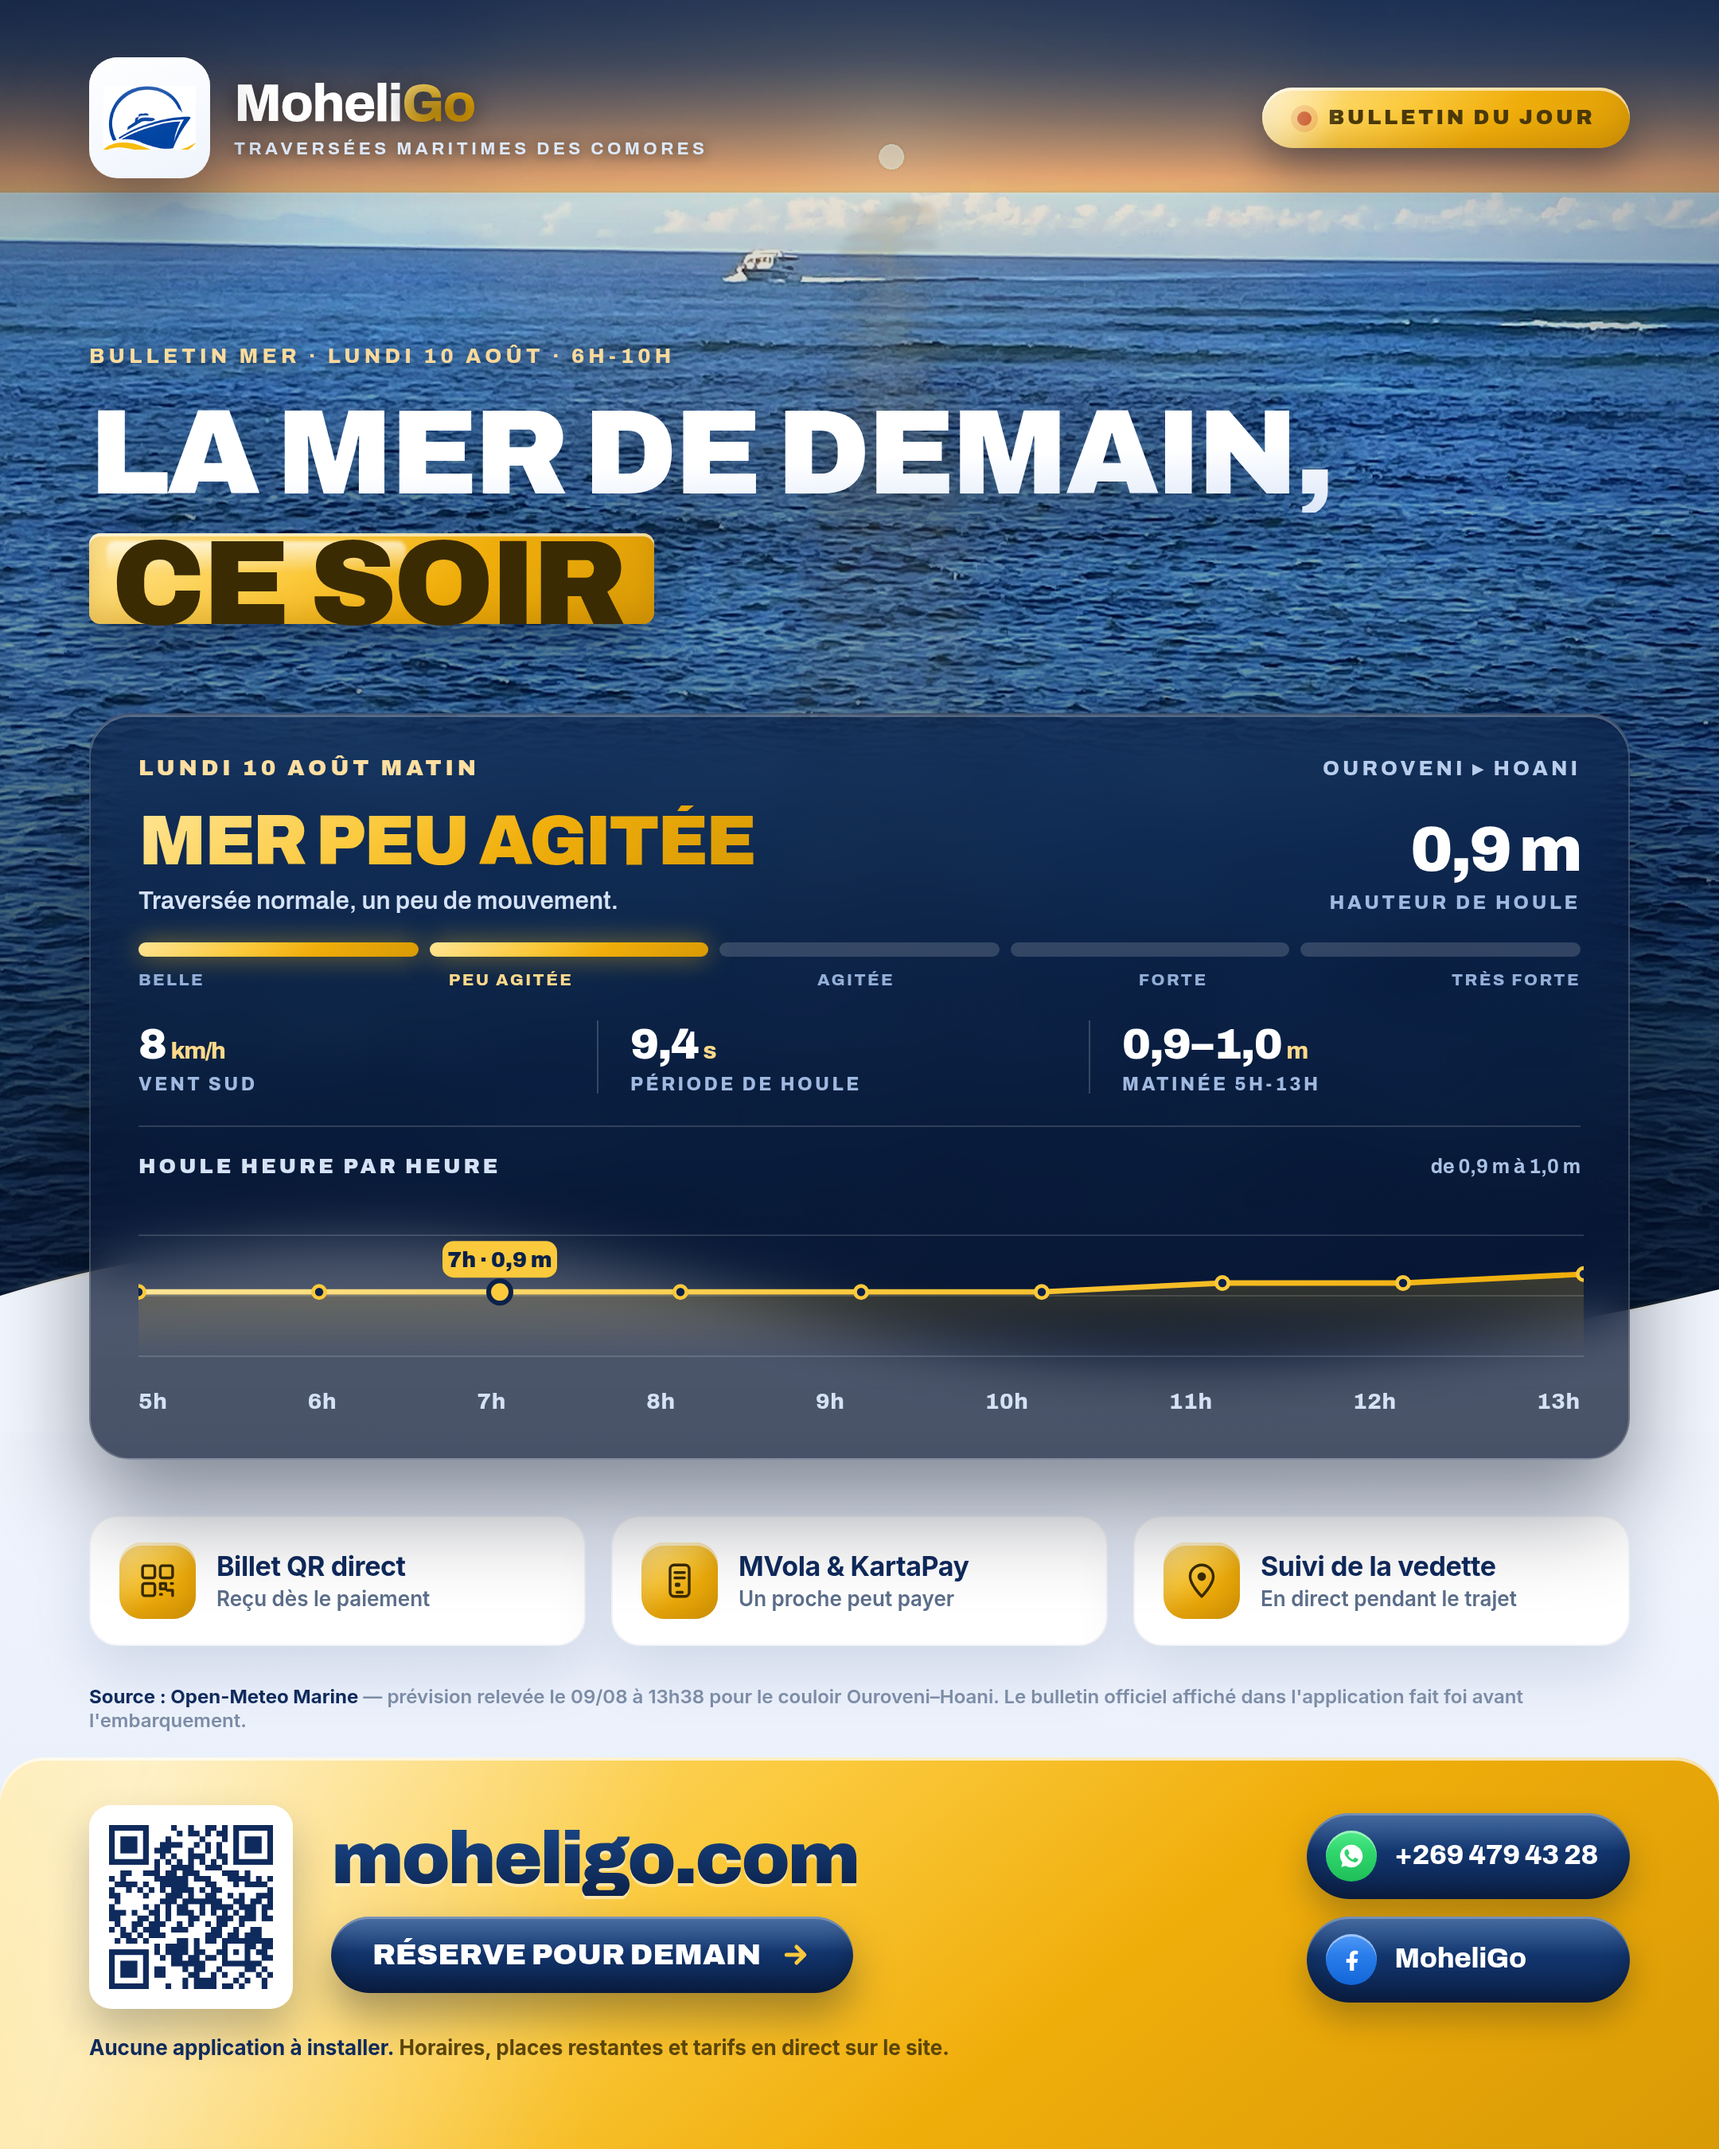
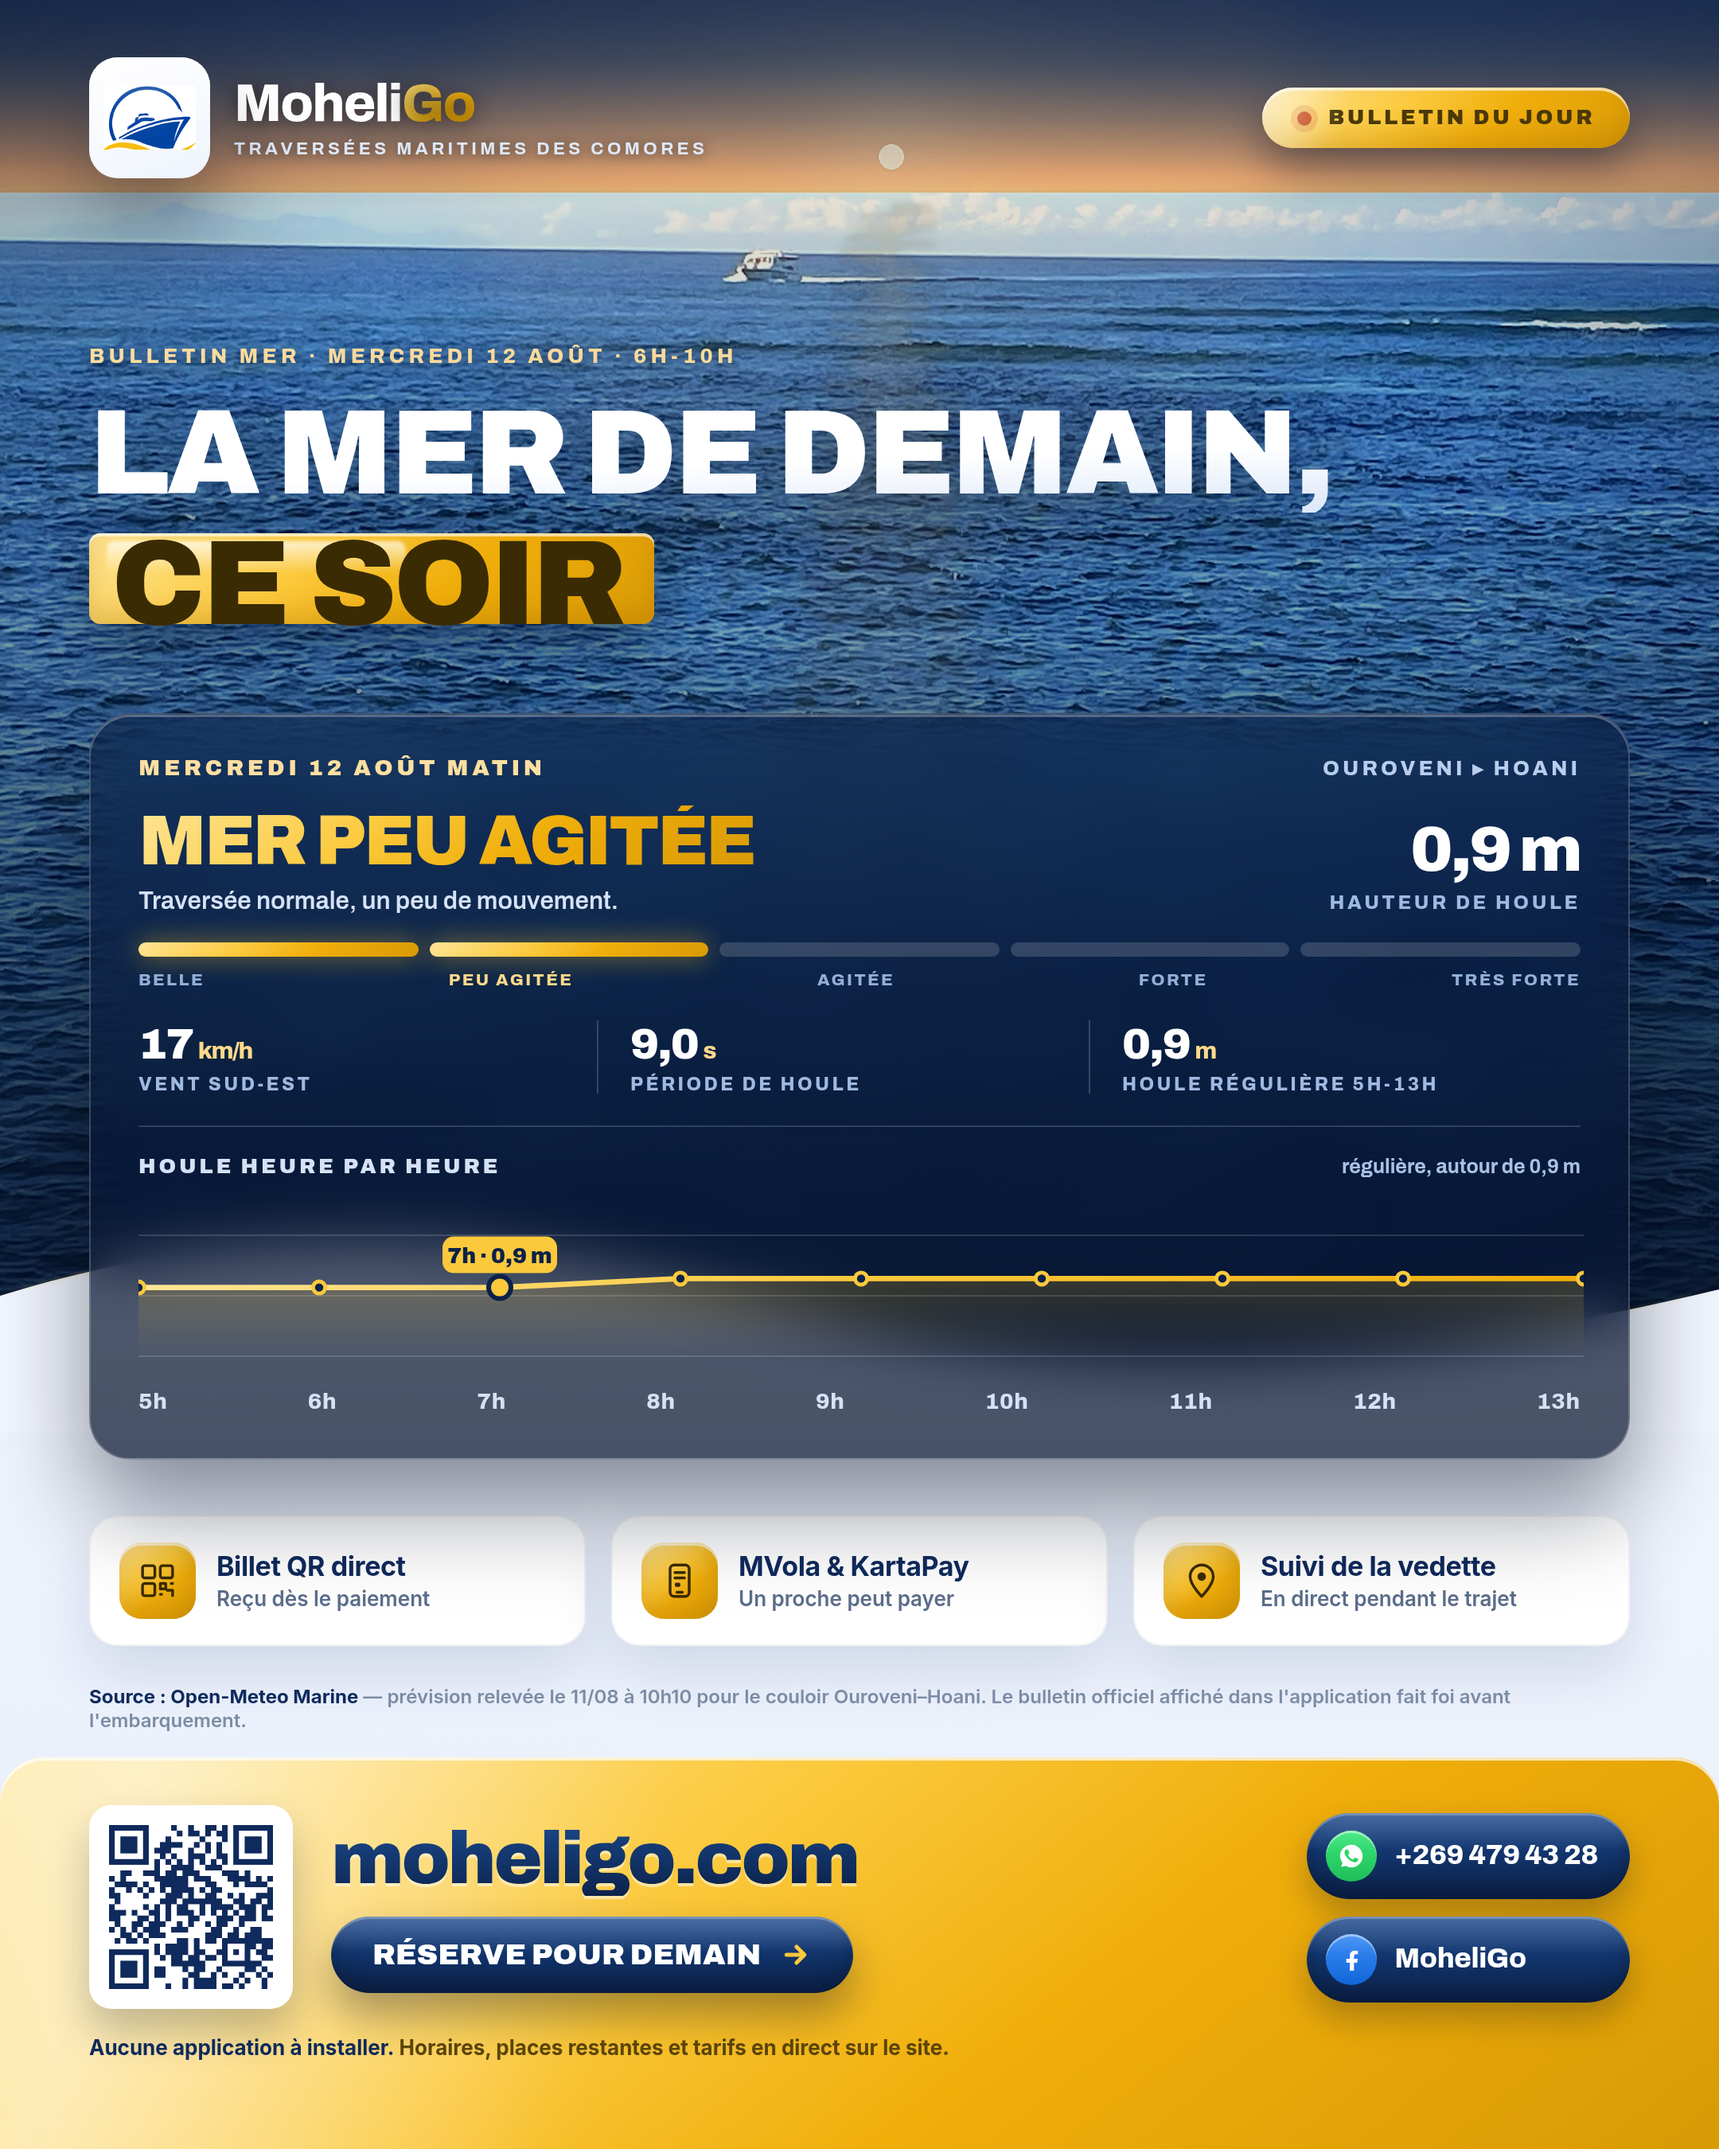
Bulletin mer du mercredi 12 aout + houle reguliere nommee
Bulletin du soir regenere sur la prevision reelle du 11/08 a 10h10 :
mer peu agitee, houle 0,93 m, vent 17 km/h sud-est, periode 9,0 s.

La houle variait de moins d'un decimetre sur la matinee, ce qui donnait
« 0,9-0,9 m » et « de 0,9 m a 0,9 m » : juste, mais illisible. bulletin.py
detecte ce cas et affiche « 0,9 m / HOULE REGULIERE 5H-13H ». Les jetons
{{HMIN}}/{{HMAX}} du gabarit sont remplaces par {{AMPLI}}/{{AMPLI_LAB}}.

MEMOIRE.md et pub/flyers/README.md mis a jour.

Claude-Session: https://claude.ai/code/session_01BYJ87ihntXtVLQBUE1Jkoy

diff --git a/moheligo/pub/flyers/flyer8-soir-fb.html b/moheligo/pub/flyers/flyer8-soir-fb.html
@@ -197,12 +197,12 @@ body { width:1080px; height:1350px; font-family:'Inter',Arial,sans-serif; color:
   </div>
 
   <div class="claim">
-    <span class="over arch">BULLETIN MER · LUNDI 10 AOÛT · 6H-10H</span>
+    <span class="over arch">BULLETIN MER · MERCREDI 12 AOÛT · 6H-10H</span>
     <h1 class="arch"><span class="l1">LA MER DE DEMAIN,</span><span class="hl">CE SOIR</span></h1>
   </div>
 
   <div class="glass">
-    <div class="gh arch"><b>LUNDI 10 AOÛT MATIN</b><span>OUROVENI &#9656; HOANI</span></div>
+    <div class="gh arch"><b>MERCREDI 12 AOÛT MATIN</b><span>OUROVENI &#9656; HOANI</span></div>
 
     <div class="verdict">
       <div class="txt arch"><b>MER PEU AGITÉE</b><small>Traversée normale, un peu de mouvement.</small></div>
@@ -213,13 +213,13 @@ body { width:1080px; height:1350px; font-family:'Inter',Arial,sans-serif; color:
     <div class="gauge-lab arch"><span class="">BELLE</span><span class="on">PEU AGITÉE</span><span class="">AGITÉE</span><span class="">FORTE</span><span class="">TRÈS FORTE</span></div>
 
     <div class="metrics arch">
-      <div class="metric"><b>8<i>km/h</i></b><small>VENT SUD</small></div>
-      <div class="metric"><b>9,4<i>s</i></b><small>PÉRIODE DE HOULE</small></div>
-      <div class="metric"><b>0,9–1,0<i>m</i></b><small>MATINÉE 5H-13H</small></div>
+      <div class="metric"><b>17<i>km/h</i></b><small>VENT SUD-EST</small></div>
+      <div class="metric"><b>9,0<i>s</i></b><small>PÉRIODE DE HOULE</small></div>
+      <div class="metric"><b>0,9<i>m</i></b><small>HOULE RÉGULIÈRE 5H-13H</small></div>
     </div>
 
     <div class="chart">
-      <div class="ct arch"><b>HOULE HEURE PAR HEURE</b><span>de 0,9 m à 1,0 m</span></div>
+      <div class="ct arch"><b>HOULE HEURE PAR HEURE</b><span>régulière, autour de 0,9 m</span></div>
       <svg width="908" height="116" viewBox="0 0 908 116" fill="none">
         <defs>
           <linearGradient id="aire" x1="0" y1="0" x2="0" y2="104" gradientUnits="userSpaceOnUse">
@@ -232,10 +232,10 @@ body { width:1080px; height:1350px; font-family:'Inter',Arial,sans-serif; color:
           </linearGradient>
         </defs>
         <path d="M0 28 H908 M0 66 H908 M0 104 H908" stroke="#FFFFFF" stroke-opacity=".15" stroke-width="1"/>
-        <path d="M0.0 63.6 L113.5 63.6 L227.0 63.6 L340.5 63.6 L454.0 63.6 L567.5 63.6 L681.0 58.0 L794.5 58.0 L908.0 52.4 L908.0 116 L0.0 116 Z" fill="url(#aire)"/>
-        <path d="M0.0 63.6 L113.5 63.6 L227.0 63.6 L340.5 63.6 L454.0 63.6 L567.5 63.6 L681.0 58.0 L794.5 58.0 L908.0 52.4" fill="none" stroke="url(#trait)" stroke-width="3.4"
+        <path d="M0.0 60.8 L113.5 60.8 L227.0 60.8 L340.5 55.2 L454.0 55.2 L567.5 55.2 L681.0 55.2 L794.5 55.2 L908.0 55.2 L908.0 116 L0.0 116 Z" fill="url(#aire)"/>
+        <path d="M0.0 60.8 L113.5 60.8 L227.0 60.8 L340.5 55.2 L454.0 55.2 L567.5 55.2 L681.0 55.2 L794.5 55.2 L908.0 55.2" fill="none" stroke="url(#trait)" stroke-width="3.4"
               stroke-linecap="round" stroke-linejoin="round"/>
-        <circle cx="0.0" cy="63.6" r="3.8" fill="#0B2149" stroke="#FBC93C" stroke-width="2.4"/><circle cx="113.5" cy="63.6" r="3.8" fill="#0B2149" stroke="#FBC93C" stroke-width="2.4"/><circle cx="227.0" cy="63.6" r="3.8" fill="#0B2149" stroke="#FBC93C" stroke-width="2.4"/><circle cx="340.5" cy="63.6" r="3.8" fill="#0B2149" stroke="#FBC93C" stroke-width="2.4"/><circle cx="454.0" cy="63.6" r="3.8" fill="#0B2149" stroke="#FBC93C" stroke-width="2.4"/><circle cx="567.5" cy="63.6" r="3.8" fill="#0B2149" stroke="#FBC93C" stroke-width="2.4"/><circle cx="681.0" cy="58.0" r="3.8" fill="#0B2149" stroke="#FBC93C" stroke-width="2.4"/><circle cx="794.5" cy="58.0" r="3.8" fill="#0B2149" stroke="#FBC93C" stroke-width="2.4"/><circle cx="908.0" cy="52.4" r="3.8" fill="#0B2149" stroke="#FBC93C" stroke-width="2.4"/><circle cx="227.0" cy="63.6" r="7" fill="#FBC93C" stroke="#0B2149" stroke-width="3"/><rect x="191.0" y="31.6" width="72" height="23" rx="7" fill="#FBC93C"/><text x="227.0" y="48.1" text-anchor="middle" font-family="Archivo,Inter,sans-serif" font-size="13.5" font-weight="900" fill="#0B2149">7h · 0,9 m</text>
+        <circle cx="0.0" cy="60.8" r="3.8" fill="#0B2149" stroke="#FBC93C" stroke-width="2.4"/><circle cx="113.5" cy="60.8" r="3.8" fill="#0B2149" stroke="#FBC93C" stroke-width="2.4"/><circle cx="227.0" cy="60.8" r="3.8" fill="#0B2149" stroke="#FBC93C" stroke-width="2.4"/><circle cx="340.5" cy="55.2" r="3.8" fill="#0B2149" stroke="#FBC93C" stroke-width="2.4"/><circle cx="454.0" cy="55.2" r="3.8" fill="#0B2149" stroke="#FBC93C" stroke-width="2.4"/><circle cx="567.5" cy="55.2" r="3.8" fill="#0B2149" stroke="#FBC93C" stroke-width="2.4"/><circle cx="681.0" cy="55.2" r="3.8" fill="#0B2149" stroke="#FBC93C" stroke-width="2.4"/><circle cx="794.5" cy="55.2" r="3.8" fill="#0B2149" stroke="#FBC93C" stroke-width="2.4"/><circle cx="908.0" cy="55.2" r="3.8" fill="#0B2149" stroke="#FBC93C" stroke-width="2.4"/><circle cx="227.0" cy="60.8" r="7" fill="#FBC93C" stroke="#0B2149" stroke-width="3"/><rect x="191.0" y="28.799999999999997" width="72" height="23" rx="7" fill="#FBC93C"/><text x="227.0" y="45.3" text-anchor="middle" font-family="Archivo,Inter,sans-serif" font-size="13.5" font-weight="900" fill="#0B2149">7h · 0,9 m</text>
       </svg>
       <div class="hours arch"><span>5h</span><span>6h</span><span>7h</span><span>8h</span><span>9h</span><span>10h</span><span>11h</span><span>12h</span><span>13h</span></div>
     </div>
@@ -262,7 +262,7 @@ body { width:1080px; height:1350px; font-family:'Inter',Arial,sans-serif; color:
     </div>
   </div>
 
-  <div class="source"><b>Source : Open-Meteo Marine</b> — prévision relevée le 09/08 à 13h38 pour le couloir Ouroveni–Hoani.
+  <div class="source"><b>Source : Open-Meteo Marine</b> — prévision relevée le 11/08 à 10h10 pour le couloir Ouroveni–Hoani.
     Le bulletin officiel affiché dans l'application fait foi avant l'embarquement.</div>
 
   <div class="cta">

diff --git a/moheligo/pub/flyers/flyer8-soir-fb.template.html b/moheligo/pub/flyers/flyer8-soir-fb.template.html
@@ -215,7 +215,7 @@ body { width:1080px; height:1350px; font-family:'Inter',Arial,sans-serif; color:
     <div class="metrics arch">
       <div class="metric"><b>{{VENT}}<i>km/h</i></b><small>VENT {{DIRV}}</small></div>
       <div class="metric"><b>{{PERIODE}}<i>s</i></b><small>PÉRIODE DE HOULE</small></div>
-      <div class="metric"><b>{{HMIN}}–{{HMAX}}<i>m</i></b><small>MATINÉE 5H-13H</small></div>
+      <div class="metric"><b>{{AMPLI}}</b><small>{{AMPLI_LAB}}</small></div>
     </div>
 
     <div class="chart">

diff --git a/moheligo/pub/flyers/bulletin.py b/moheligo/pub/flyers/bulletin.py
@@ -140,6 +140,20 @@ def main():
     gauge_lab = ''.join(f'<span class="{"on" if i == niveau else ""}">{l}</span>'
                         for i, l in enumerate(LABELS))
 
+    # amplitude de la matinée. Quand la houle est régulière (ce qui arrive
+    # souvent en saison sèche), l'arrondi au décimètre donnait « 0,9–0,9 m » :
+    # ça ressemble à un bug alors que c'est une bonne nouvelle. On la nomme.
+    hmin, hmax = f'{min(courbe):.1f}', f'{max(courbe):.1f}'
+    virg = lambda s: s.replace('.', ',')
+    if hmin == hmax:
+        ampli = f'{virg(hmin)}<i>m</i>'
+        ampli_lab = 'HOULE RÉGULIÈRE 5H-13H'
+        plage = f'régulière, autour de {virg(hmin)} m'
+    else:
+        ampli = f'{virg(hmin)}–{virg(hmax)}<i>m</i>'
+        ampli_lab = 'MATINÉE 5H-13H'
+        plage = f'de {virg(hmin)} m à {virg(hmax)} m'
+
     # heure des Comores (UTC+3), pas celle du serveur
     maj = datetime.now(timezone(timedelta(hours=3))).strftime('le %d/%m à %Hh%M')
     vals = {
@@ -151,9 +165,7 @@ def main():
         'VENT': f'{v:.0f}',
         'DIRV': dirv.upper(),
         'PERIODE': f'{periode:.1f}'.replace('.', ','),
-        'HMIN': f'{min(courbe):.1f}'.replace('.', ','),
-        'HMAX': f'{max(courbe):.1f}'.replace('.', ','),
-        'PLAGE': f'de {min(courbe):.1f} m à {max(courbe):.1f} m'.replace('.', ','),
+        'AMPLI': ampli, 'AMPLI_LAB': ampli_lab, 'PLAGE': plage,
         'COURBE': courbe_d, 'AIRE': aire_d, 'POINTS': points, 'HEURES': heures,
         'GAUGE': gauge, 'GAUGE_LAB': gauge_lab, 'MAJ': maj,
     }

diff --git a/moheligo/MEMOIRE.md b/moheligo/MEMOIRE.md
@@ -342,6 +342,20 @@ recharger ce sujet ici, ce n'est pas du marketing.
 
 ## 6. Journal des sessions
 
+- **11/08/2026** — « C'est toi le directeur marketing, fais aussi la météo de
+  demain. » Bulletin régénéré pour **mercredi 12 août** (mer peu agitée, houle
+  0,93 m, vent 17 km/h de sud-est, période 9,0 s) et bloc « météo de demain »
+  de la page rafraîchi (matin dégagé 22→27 °C, **pluie fine l'après-midi,
+  57 % vers 15h**, soir dégagé 24-25 °C).
+  ⚠ **Amélioration à garder** : la houle était si régulière (0,92 → 0,94 m) que
+  l'arrondi au décimètre affichait « 0,9–0,9 m » et « de 0,9 m à 0,9 m » — ça
+  ressemblait à un bug alors que c'est une bonne nouvelle. `bulletin.py` détecte
+  maintenant ce cas et écrit **« 0,9 m · HOULE RÉGULIÈRE 5H-13H »** et
+  « régulière, autour de 0,9 m ». Le gabarit n'a plus `{{HMIN}}/{{HMAX}}` mais
+  `{{AMPLI}}` et `{{AMPLI_LAB}}`.
+  Leçon de fond : **un chiffre juste peut quand même mal se lire ; nommer la
+  situation vaut mieux que répéter le nombre.**
+
 - **09/08/2026 (suite)** — « Écris un autre texte pour la pub style grand
   conglomérat, réessaie. » Deuxième tentative, nettement plus tenue que celle du
   07/08 : « ENTRE DEUX ÎLES, IL Y A UN SERVICE » — phrases courtes, aucune liste

diff --git a/moheligo/pub/flyers/README.md b/moheligo/pub/flyers/README.md
@@ -184,6 +184,14 @@ Le dernier argument est le facteur d'échelle : 1240 × 1754 CSS × 2 = A4 à
   s'applique **qu'aux valeurs affichées**, jamais au fragment SVG entier — un
   `.replace('.', ',')` sur tout le fragment casse les coordonnées (`x="194,0"`)
   et l'étiquette part dans le coin.
+- ⚠ **Mer régulière (11/08/2026)** : quand la houle bouge de moins d'un
+  décimètre sur la matinée, l'ancien affichage donnait « 0,9–0,9 m » et « de
+  0,9 m à 0,9 m » — juste, mais ça se lit comme un bug. `bulletin.py` compare
+  maintenant les deux valeurs arrondies et bascule sur
+  **« 0,9 m · HOULE RÉGULIÈRE 5H-13H »** / « régulière, autour de 0,9 m ».
+  Les jetons du gabarit sont `{{AMPLI}}` et `{{AMPLI_LAB}}` (plus de
+  `{{HMIN}}`/`{{HMAX}}`). Règle générale : **nommer la situation plutôt que
+  répéter le chiffre.**
 
 ## L'affiche duotone : ce que dit la recherche sur les belles affiches
 
